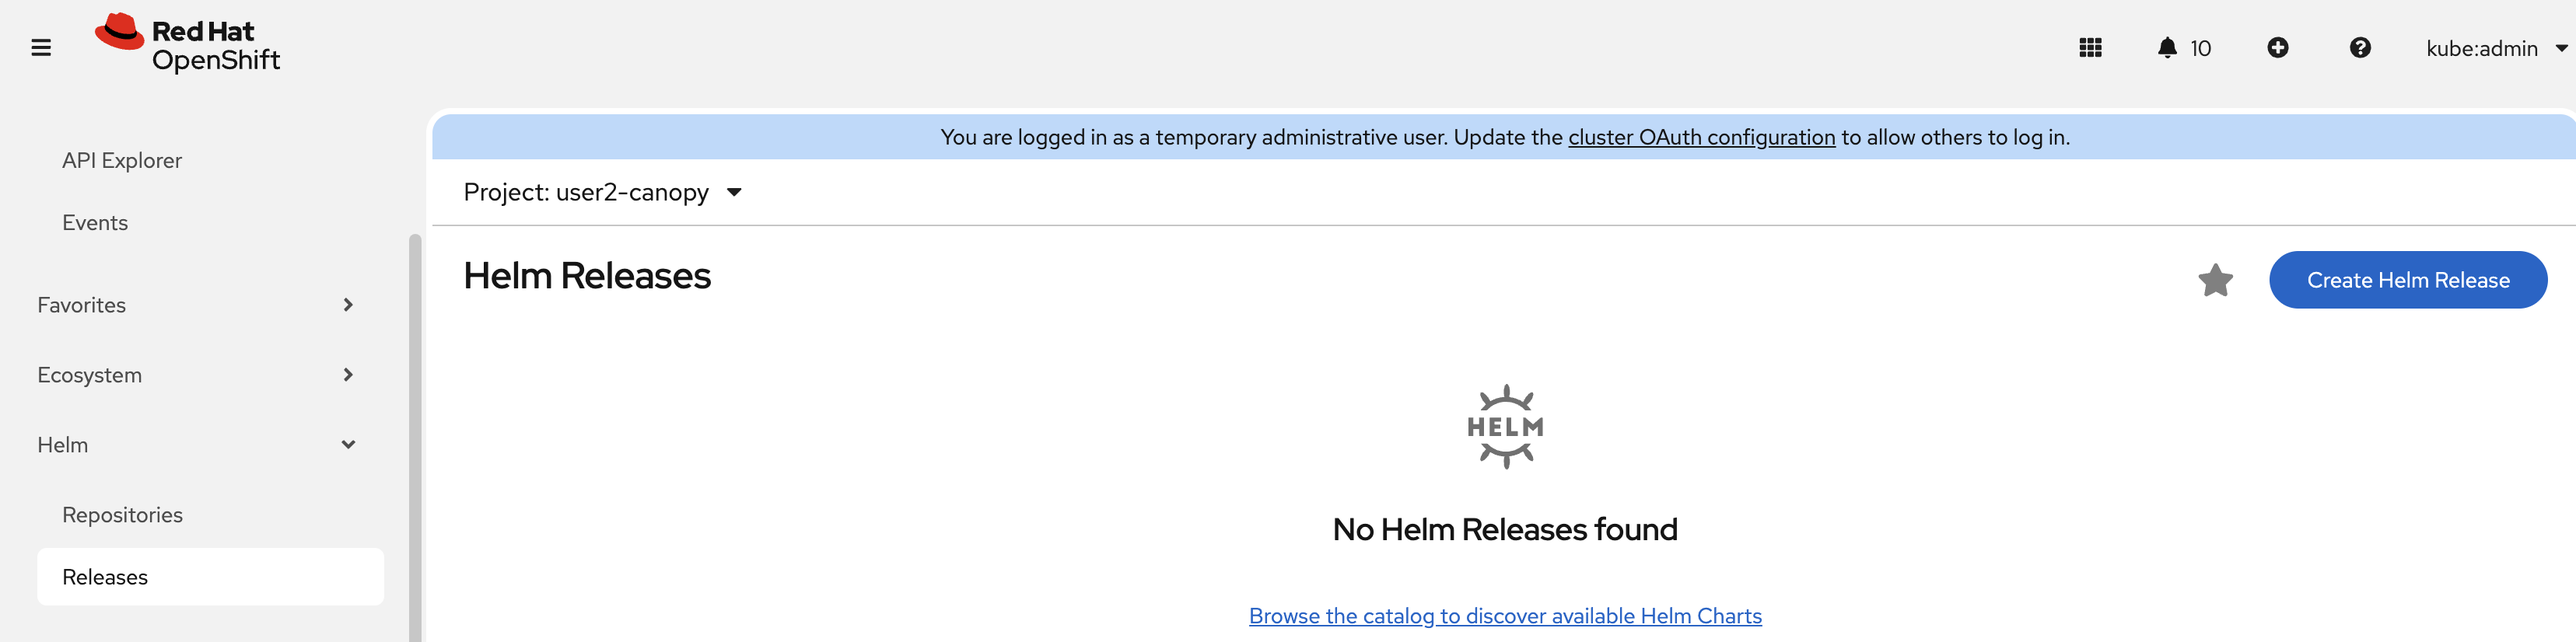
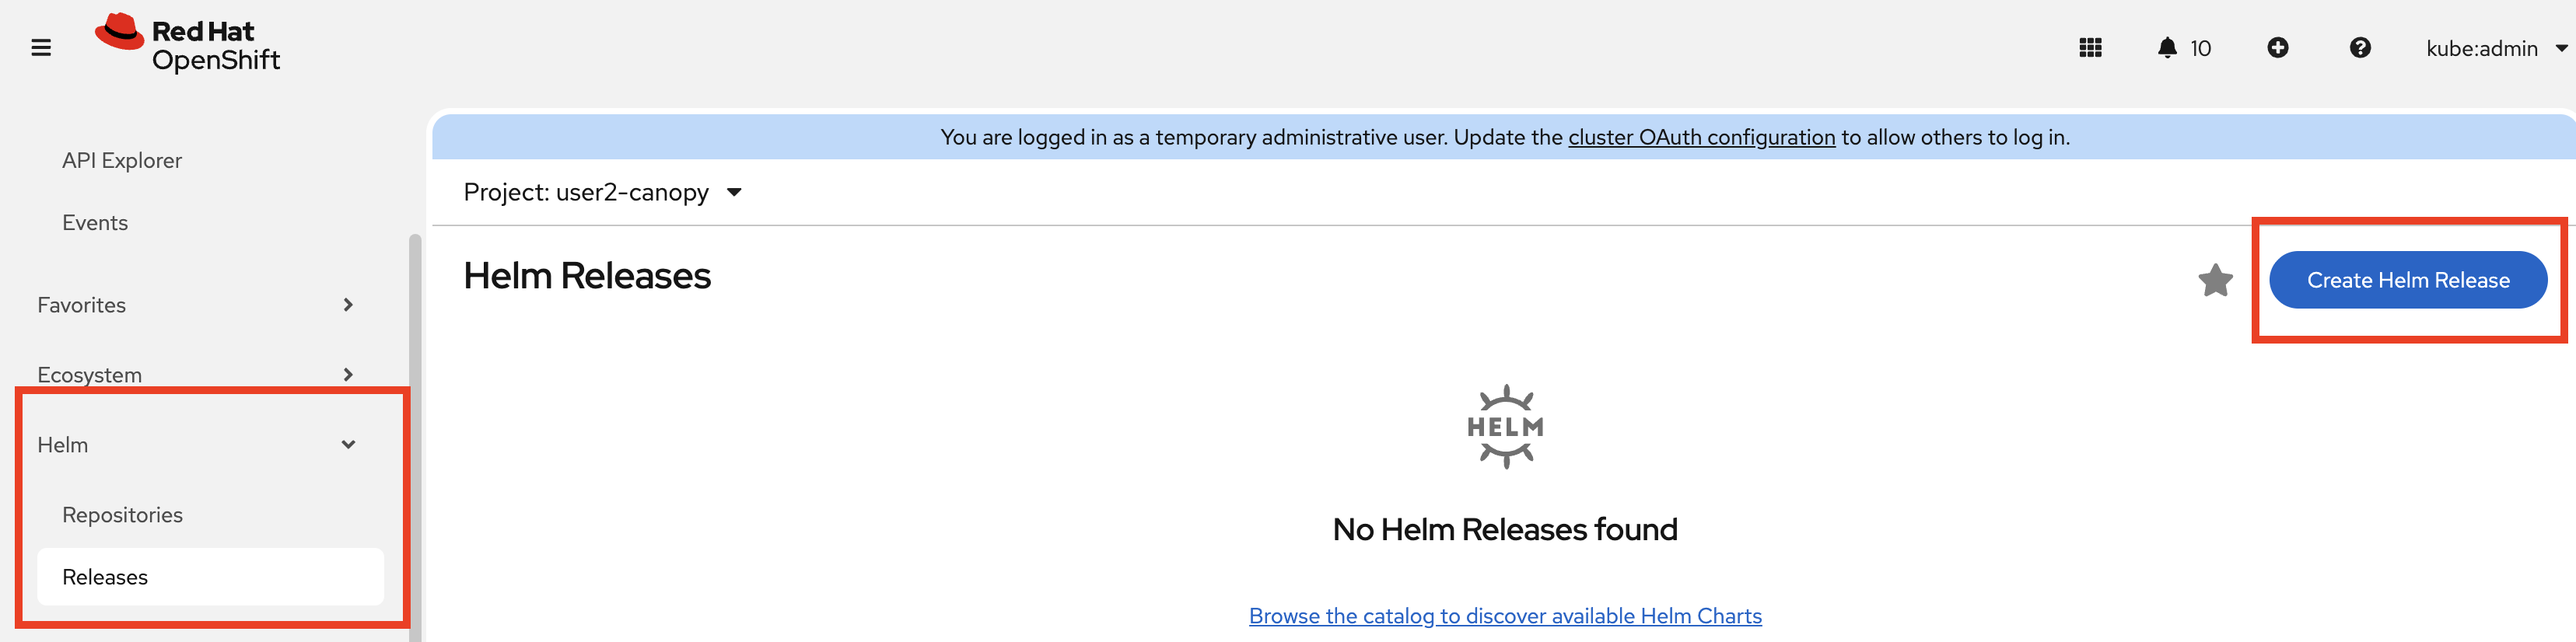
updating pictures with red boxes

Changed region(s): [[0.8708, 0.3329, 1.0, 0.5448], [0.0, 0.5751, 0.1866, 0.6356], [0.0, 0.9383, 0.1555, 0.9988]]

diff --git a/docs/8-agents/0-set-up-deployment.md b/docs/8-agents/0-set-up-deployment.md
@@ -4,14 +4,19 @@ Because we have to skip some of the AI501 sections, we will need to take some sh
 
 ## Set up Milvus
 
+Milvus is a high-performance, open-source vector database developed by Zilliz. We'll be using it as a RAG database.
+
 1. Let's quickly deploy a Milvus database instance into our namespace. In the Openshift console, expand `Helm` section from the left menu (if it is not there, refresh the page), click `Releases` and make sure you are on `<USER_NAME>-canopy` project. Then from the top right select `Create Helm Release`.
 
     ![blank_helm_release.png](./images/fsibootcamp/blank_helm_release.png)
 
-2. In the search bar, search for `Milvus` and choose the `Milvus` instance tile and press the blue `Create` button.
+2. In the search bar, search for `Milvus` and choose the `Milvus` instance tile.
 
-    ![helm_chart_milvus_1.png](./images/fsibootcamp/helm_chart_milvus_1.png)
-    ![helm_chart_milvus_2.png](./images/fsibootcamp/helm_chart_milvus_2.png)
+    ![helm_chart_milvus_1.png](./images/fsibootcamp/helm_chart_milvus_1.png){width=80%}
+
+    and then press the blue `Create` button.  
+
+    ![helm_chart_milvus_2.png](./images/fsibootcamp/helm_chart_milvus_2.png){width=80%}
 
 3. This brings up another configuration screen. We can leave the defaults for this Milvus instance and press the `Create` button to bring up the Milvus script.
 
@@ -21,6 +26,7 @@ Because we have to skip some of the AI501 sections, we will need to take some sh
 
     ![helm_chart_milvus_5.png](./images/fsibootcamp/helm_chart_milvus_5.png)
 
+5. We have successfully brought up a Milvus database for RAG. 
 
 ## Deploy Llama Stack
 
@@ -78,6 +84,9 @@ telemetry:
 
 We are updating `eval: enabled: true`, `mcp: enabled: true`, `rag: enabled: true`, and updating `rag: milvus: service: milvus`
 
+## Let's start using these components
+1. After Milvus and Llama stack is up and running, we'll need to set up the Milvus database for using it with RAG.
 
-4. After Milvus and Llama stack is up and running, we'll need to set up the Milvus database for using it with RAG.
-5. Open up the notebook called `5-rag/2-intro-to-RAG.ipynb` and follow the instructions.
+2. Open up the notebook called `5-rag/2-intro-to-RAG.ipynb` and follow the instructions.
+
+3. Once you're done with "Intro to RAG" we can move onto the next section.
